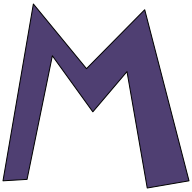
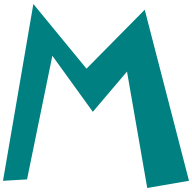
Styling changes

diff --git a/src/App.js b/src/App.js
@@ -7,6 +7,7 @@ import mechro4k from "./images/mechro4k.jpg";
 import nokia3310 from "./images/nokia3310.png";
 import entrymusic from "./images/entrymusic.PNG";
 import React from "react";
+import Footer from "./Footer/Footer";
 
 function App() {
   const projects = [
@@ -15,7 +16,7 @@ function App() {
       description:
         'This site right here',
       image: mitch,
-      link: "https://mit.ch",
+      link: "https://github.com/kitkityee/mitchyWebsite",
     },
     {
       name: "SpaceCadetPinballLeaderboard",
@@ -56,6 +57,7 @@ function App() {
     <React.Fragment>
       <Header></Header>
       <Project projects={projects}></Project>
+      <Footer></Footer>
     </React.Fragment>
   );
 }

diff --git a/src/Header/Header.js b/src/Header/Header.js
@@ -7,9 +7,13 @@ const Header = () => {
       <div className={style.header}>Mit.ch</div>
       <div className={style.aboutme}>
         <h2>About Me</h2>
-        <p>My name is Mitch, this site documents my various projects</p>
-        <p>
-          ("Design" by me, site by <a href="http://kityee.uk">Kit</a>)
+        <p class="description">
+          My name is Mitch, I am a Sys Admin/Cloud Engineer located in Brighton,
+          England. <br></br>
+          <br></br>
+          This site documents various personal projects including software and
+          web development, hardware projects, and some things relating to my
+          work.
         </p>
       </div>
     </React.Fragment>

diff --git a/src/Header/Header.module.css b/src/Header/Header.module.css
@@ -10,10 +10,24 @@
 .aboutme {
   text-align: center;
   color: whitesmoke;
-  background-color: rgb(71, 47, 70);
+  background-color: #008080;
   padding: 1rem 3rem 5rem 3rem;
 }
 
 a {
   color: white;
+}
+
+.description {
+  width: 60%;
+  margin-left: auto;
+  margin-right: auto;
+}
+
+hr {
+  width: 70%;
+  height: 2px;
+  background-color: whitesmoke;
+  margin-left: auto;
+  margin-right: auto;
 }

diff --git a/src/Projects/ProjectItems.module.css b/src/Projects/ProjectItems.module.css
@@ -10,7 +10,7 @@ li {
   padding: 10px;
   box-shadow: 0 2px 8px rgba(0, 0, 0, 0.26);
   position: relative;
-  animation-duration: 0.5s;
+  animation-duration: 0.3s;
   animation-iteration-count: once;
   transform-origin: bottom;
 }
@@ -55,7 +55,7 @@ li {
 
 li:hover,
 li:active {
-  background-color: rgb(71, 47, 70);
+  background-color: #005f5f;
 }
 
 li:hover .tiptext {

diff --git a/src/Footer/Footer.js b/src/Footer/Footer.js
@@ -1,0 +1,16 @@
+import style from "./Footer.module.css";
+import React from "react";
+
+const Footer = () => {
+  return (
+    <React.Fragment>
+      <div className={style.footer}>
+        <p>
+        © 2022 Mitch, and <a href="http://kityee.uk">Kit</a> inc.
+        </p>
+      </div>
+    </React.Fragment>
+  );
+};
+
+export default Footer;

diff --git a/src/Projects/ProjectItem.js b/src/Projects/ProjectItem.js
@@ -1,5 +1,4 @@
 import style from "./ProjectItems.module.css";
-import { Fragment } from "react";
 
 const ProjectItem = (props) => {
   const clickItemHandler = () => {

diff --git a/src/Footer/Footer.module.css b/src/Footer/Footer.module.css
@@ -1,0 +1,10 @@
+.footer {
+  text-align: right;
+  color: whitesmoke;
+  background-color: #008080;
+  padding: 0.1rem 3rem 0.1rem 3rem;
+}
+
+a {
+  color: white;
+}
